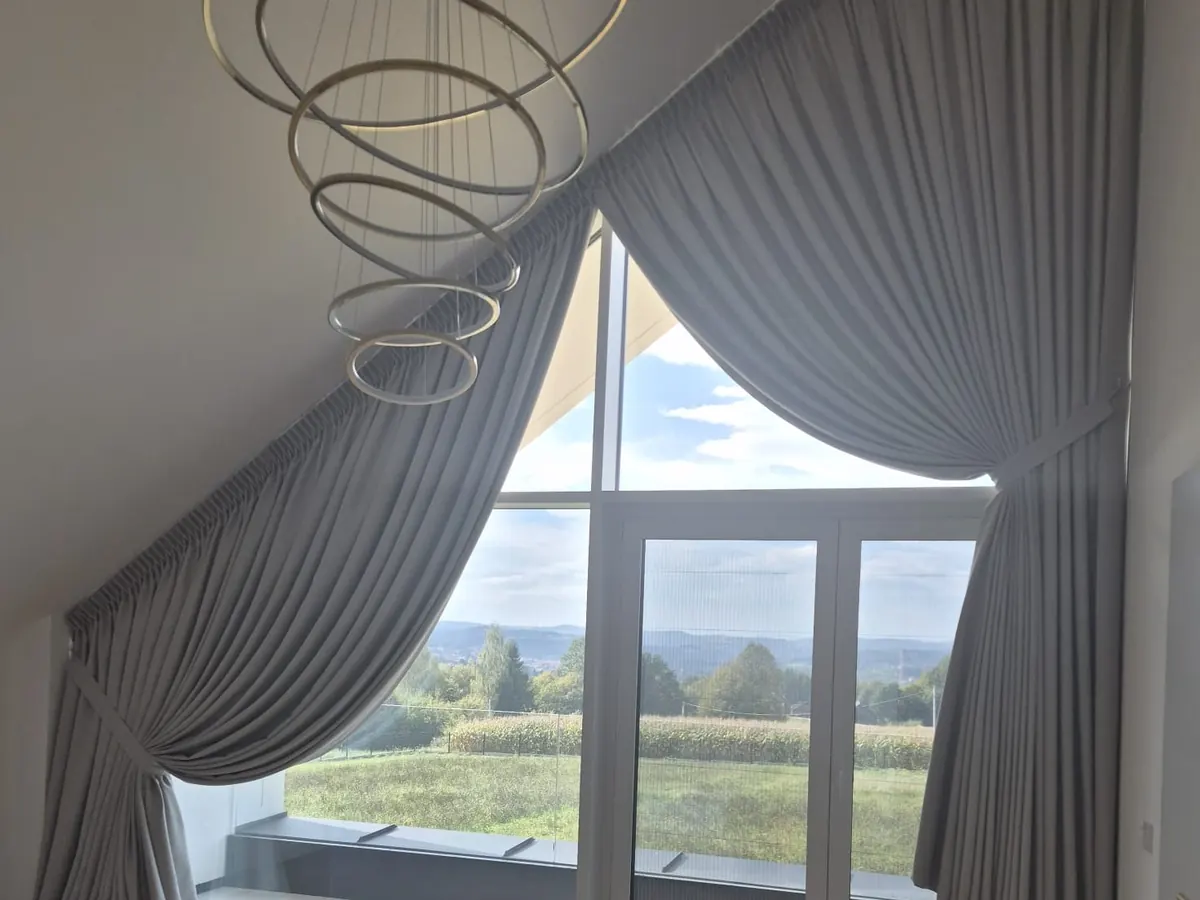
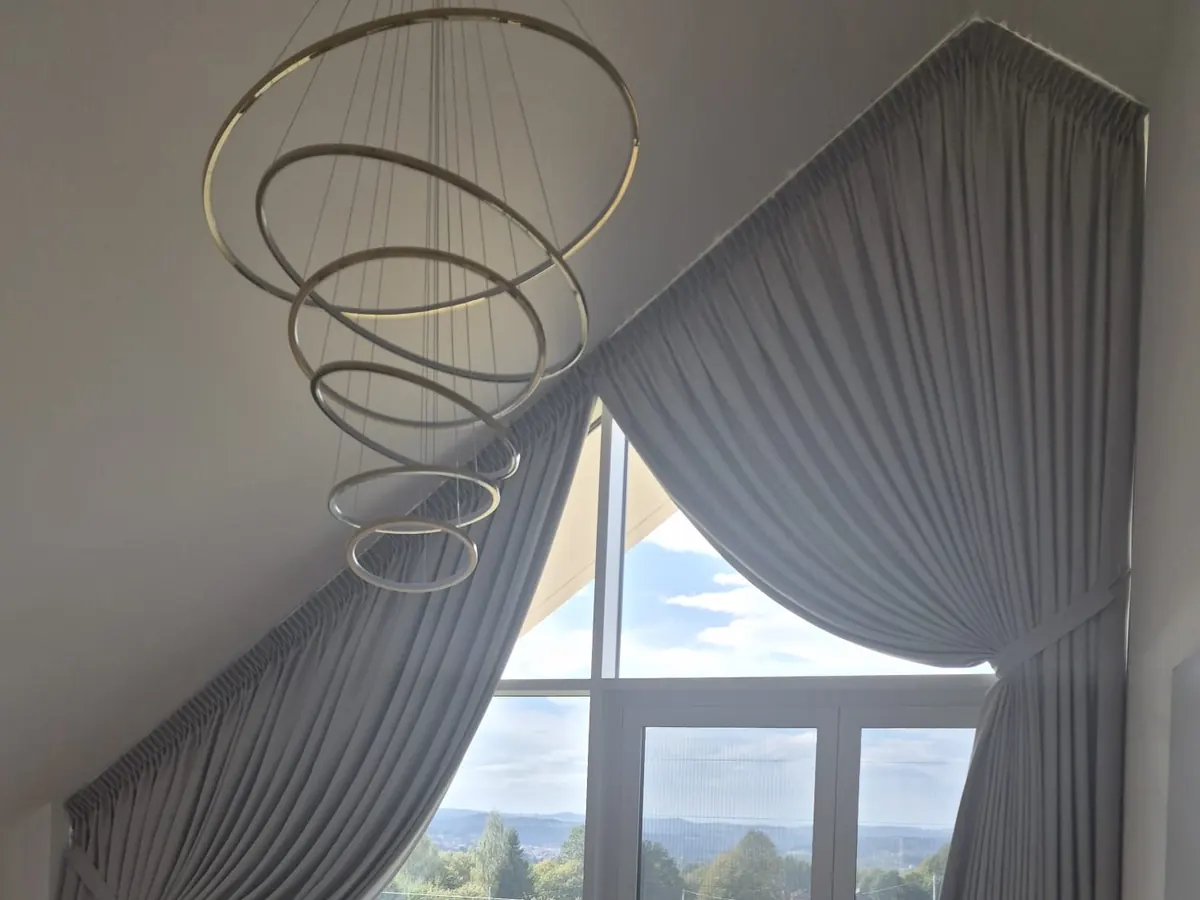
Rolety na własnych zdjęciach, dodatki dekoracyjne, poprawione kadry realizacji

diff --git a/decor-prestige/src/data/products.js b/decor-prestige/src/data/products.js
@@ -46,16 +46,23 @@ export const products = [
     id:          'rolety',
     title:       'Rolety',
     image:       '/foto/rolety.webp',
-    homeImage:   '/rolety.png',
+    homeImage:   '/foto/rolety-home.webp',
     alt:         'Rolety — DECOR-PRESTIGE',
-    shortDesc:   'Praktyczne i eleganckie — od blackout po transparentne.',
-    description: 'Rolety to jedno z najbardziej wszechstronnych rozwiązań okiennych.',
+    shortDesc:   'Rolety materiałowe szyte na miarę.',
+    description: 'Rolety materiałowe szyjemy na miarę z wybranych tkanin — od prostych, klasycznych form po ozdobne wykończenia z frędzlami i koronką.',
     features: [
       'Roleta rzymska klasyczna',
+      'Roleta rzymska ozdobna',
       'Roleta falista',
       'Roleta duo',
       'Roleta austriacka',
-      'Roleta wenecka',
+    ],
+    types: [
+      { label: 'Roleta rzymska',          image: '/foto/rolety/rzymska.webp' },
+      { label: 'Roleta rzymska ozdobna',  image: '/foto/rolety/rzymska-ozdobna.webp' },
+      { label: 'Roleta falista',          image: '/foto/rolety/falista.webp' },
+      { label: 'Roleta duo',              image: '/foto/rolety/duo.webp' },
+      { label: 'Roleta austriacka',       image: '/foto/rolety/austriacka.webp' },
     ],
   },
   {
@@ -74,15 +81,16 @@ export const products = [
   },
   {
     id:          'dodatki',
-    title:       'Dodatki',
+    title:       'Dodatki dekoracyjne',
     image:       '/foto/dodatki.webp',
     alt:         'Dodatki dekoracyjne — DECOR-PRESTIGE',
-    shortDesc:   'Detale, które dopełniają aranżację okna.',
-    description: 'Wykończenie, które nadaje aranżacji charakter — wiązania i chwosty do zasłon, sznury dekoracyjne oraz poduszki dobrane kolorystycznie do zasłon i tkanin.',
+    shortDesc:   'Detale, które dopełniają aranżację wnętrza.',
+    description: 'Szyjemy dodatki dekoracyjne dopasowane kolorystycznie do zasłon i tkanin — poduszki ozdobne, bieżniki i obrusy, a także wiązania i chwosty, które dopełniają aranżację okna.',
     features: [
+      'Poduszki ozdobne',
+      'Bieżniki',
+      'Obrusy',
       'Wiązania i chwosty do zasłon',
-      'Sznury i ozdobne wykończenia',
-      'Poduszki dekoracyjne',
     ],
   },
 ];
@@ -93,6 +101,7 @@ export const realizacjeCategories = [
   { id: 'zaslony',   label: 'Zasłony'  },
   { id: 'rolety',    label: 'Rolety'   },
   { id: 'karnisze',  label: 'Karnisze' },
+  { id: 'dodatki',   label: 'Dodatki'  },
   { id: 'salon',     label: 'Nasz salon' },
 ];
 
@@ -126,6 +135,11 @@ export const realizacje = [
   { id: 'r27', category: 'rolety', image: '/foto/realizacje/roleta-rzymska-zaslona.webp', alt: 'Zasłona i biała roleta rzymska', title: 'Zasłona i biała roleta rzymska' },
   { id: 'r28', category: 'zaslony', image: '/foto/realizacje/schody-firana.webp', alt: 'Firana wave przy schodach', title: 'Firana wave przy schodach' },
   { id: 'r29', category: 'zaslony', image: '/foto/realizacje/sypialnia-fala.webp', alt: 'Sypialnia — zasłona wave', title: 'Sypialnia — zasłona wave' },
+  { id: 'r40', category: 'dodatki', image: '/foto/realizacje/poduszki-czarna-haft.webp', alt: 'Poduszka welurowa z haftem', title: 'Poduszka welurowa z haftem' },
+  { id: 'r41', category: 'dodatki', image: '/foto/realizacje/poduszki-pasy.webp', alt: 'Poduszki welurowe w pasy', title: 'Poduszki welurowe w pasy' },
+  { id: 'r42', category: 'dodatki', image: '/foto/realizacje/poduszki-kremowe.webp', alt: 'Poduszki kremowo-złote i wiązania', title: 'Poduszki kremowo-złote i wiązania' },
+  { id: 'r43', category: 'dodatki', image: '/foto/realizacje/poduszka-liscie.webp', alt: 'Poduszka z motywem liści', title: 'Poduszka z motywem liści' },
+  { id: 'r44', category: 'dodatki', image: '/foto/realizacje/poduszka-wiazanie.webp', alt: 'Poduszka i wiązanie do zasłon', title: 'Poduszka i wiązanie do zasłon' },
   { id: 'r30', category: 'salon', image: '/foto/salon-1.webp', alt: 'Salon DECOR-PRESTIGE, Tarnów', title: 'Salon DECOR-PRESTIGE, Tarnów' },
   { id: 'r31', category: 'salon', image: '/foto/salon-2.webp', alt: 'Strefa doradztwa', title: 'Strefa doradztwa' },
   { id: 'r32', category: 'salon', image: '/foto/salon-3.webp', alt: 'Ekspozycja tkanin i karniszy', title: 'Ekspozycja tkanin i karniszy' },

diff --git a/decor-prestige/src/pages/ProductsPage/ProductsPage.module.css b/decor-prestige/src/pages/ProductsPage/ProductsPage.module.css
@@ -339,3 +339,37 @@
     text-align: left;
   }
 }
+
+/* ---- Rodzaje (np. rolet) — zdjęcia własnych realizacji ---- */
+.typesGrid {
+  display: grid;
+  grid-template-columns: repeat(3, 1fr);
+  gap: var(--space-3);
+  margin: var(--space-6) 0;
+}
+
+.typeItem {
+  margin: 0;
+}
+
+.typeImage {
+  display: block;
+  width: 100%;
+  aspect-ratio: 4 / 3;
+  object-fit: cover;
+  border-radius: var(--radius-small);
+  background: var(--color-bg-secondary);
+}
+
+.typeLabel {
+  margin-top: var(--space-2);
+  font-size: var(--font-size-xs);
+  letter-spacing: 0.04em;
+  color: var(--color-text-muted);
+}
+
+@media (max-width: 480px) {
+  .typesGrid {
+    grid-template-columns: repeat(2, 1fr);
+  }
+}

diff --git a/decor-prestige/src/pages/ProductsPage/ProductsPage.jsx b/decor-prestige/src/pages/ProductsPage/ProductsPage.jsx
@@ -57,6 +57,17 @@ function ProductSection({ product, index }) {
           ))}
         </ul>
 
+        {product.types && (
+          <div className={styles.typesGrid}>
+            {product.types.map((t) => (
+              <figure key={t.label} className={styles.typeItem}>
+                <img src={t.image} alt={t.label} className={styles.typeImage} loading="lazy" />
+                <figcaption className={styles.typeLabel}>{t.label}</figcaption>
+              </figure>
+            ))}
+          </div>
+        )}
+
         <a href="/kontakt" className={styles.cta}>
           Umów wizytę i pomiar →
         </a>

diff --git a/decor-prestige/src/components/layout/Footer/Footer.jsx b/decor-prestige/src/components/layout/Footer/Footer.jsx
@@ -31,6 +31,7 @@ const footerProducts = [
   { label: 'Plisy',    href: '/#oferta' },
   { label: 'Rolety',   href: '/#oferta' },
   { label: 'Karnisze', href: '/#oferta' },
+  { label: 'Dodatki dekoracyjne', href: '/produkty' },
 ];
 
 export default function Footer() {

diff --git a/decor-prestige/src/pages/RealizacjePage/RealizacjePage.module.css b/decor-prestige/src/pages/RealizacjePage/RealizacjePage.module.css
@@ -147,7 +147,7 @@
   width: 100%;
   height: 100%;
   object-fit: cover;
-  object-position: center;
+  object-position: center top;
   transition: transform 0.7s ease;
 }
 

diff --git a/decor-prestige/src/components/sections/Gallery/Gallery.module.css b/decor-prestige/src/components/sections/Gallery/Gallery.module.css
@@ -74,6 +74,7 @@
   width: 100%;
   height: 100%;
   object-fit: cover;
+  object-position: center top;
   display: block;
   transition: transform 0.7s ease;
 }
